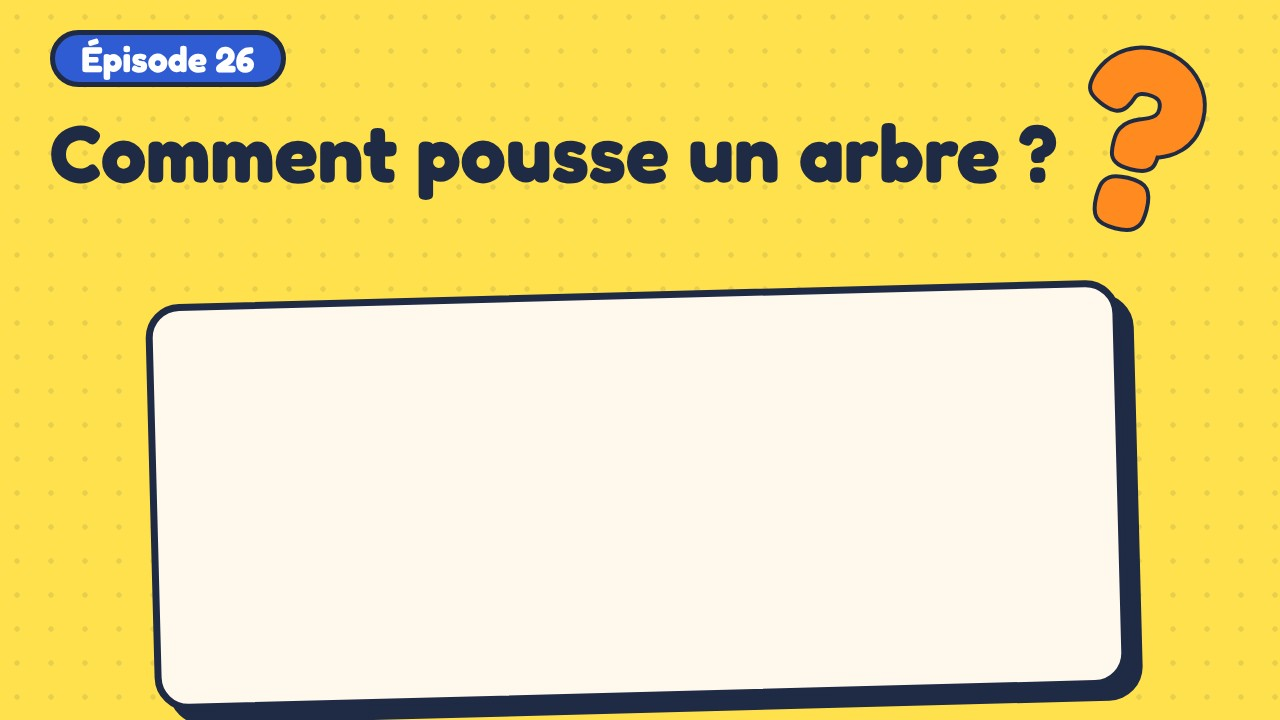
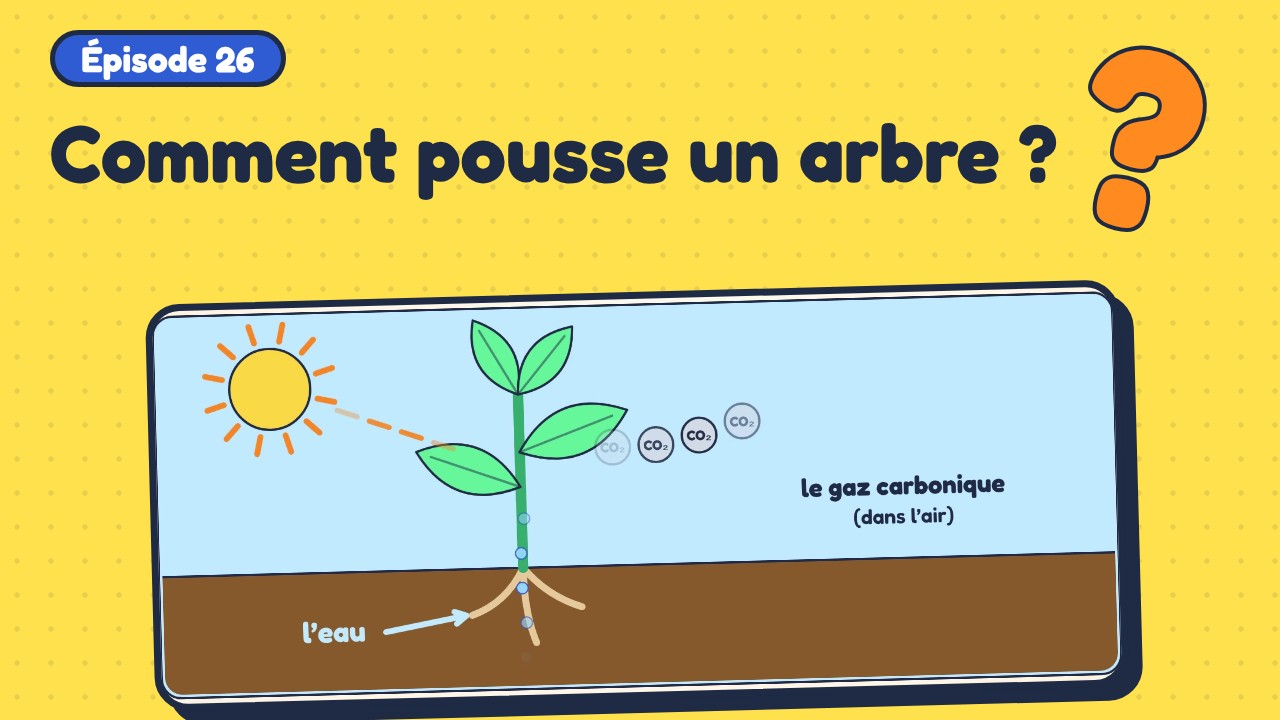
feat(kidi-science): episode 27 les abeilles, fiche de publication
Claude-Session: https://claude.ai/code/session_01U8wf5A1SYd6MuaeCmwceeF

diff --git a/kidi-science/chaine/kit.py b/kidi-science/chaine/kit.py
@@ -81,6 +81,9 @@ EPS = [
     ("ep26-plantes", "Comment une graine devient un arbre ?", "Comment pousse un arbre ?",
      "Un arbre ne mange pas la terre : il se fabrique surtout avec de l'air ! Zoé et Max suivent la graine qui se réveille, la recette de la photosynthèse (eau, air, soleil), le sucre qui devient bois, et l'oxygène offert par les plantes.",
      ["plantes", "photosynthèse", "arbre", "graine", "nature"], ("s2", 0.6)),
+    ("ep27-abeilles", "Comment les abeilles font le miel ?", "Comment les abeilles font le miel ?",
+     "Le miel ne sort pas d'une cuisine : tout commence dans une fleur. Zoé et Max suivent le nectar, de la langue de l'abeille jusqu'à l'alvéole de cire, le séchage à coups d'ailes, la réserve pour l'hiver, et le pollen qui fait naître les fruits.",
+     ["abeilles", "miel", "ruche", "pollinisation", "nature"], ("s3", 0.3)),
 ]
 COMMON_TAGS = ["Kidi-science", "sciences pour enfants", "comment ça marche", "vulgarisation scientifique", "dessin animé éducatif", "école primaire"]
 ts = lambda s: f"{int(s // 60)}:{int(s % 60):02d}"

diff --git a/kidi-science/SERIE.md b/kidi-science/SERIE.md
@@ -120,6 +120,8 @@ Demandés : **le feu**, **l'eau de mer (pourquoi elle est salée)**, et **une vi
 | Les machines | L'aimant                 | Pourquoi les aimants collent ?           |
 | La vie       | Les dinosaures           | Où sont passés les dinosaures ?          |
 | La vie       | Les plantes              | Comment une graine devient un arbre ?    |
+| La vie       | Les abeilles             | Comment les abeilles font le miel ?      |
+| Le corps     | Le hoquet (à faire)      | D'où vient le hoquet ?                   |
 
 ## Rythme : constat et règles pour les prochains épisodes
 
